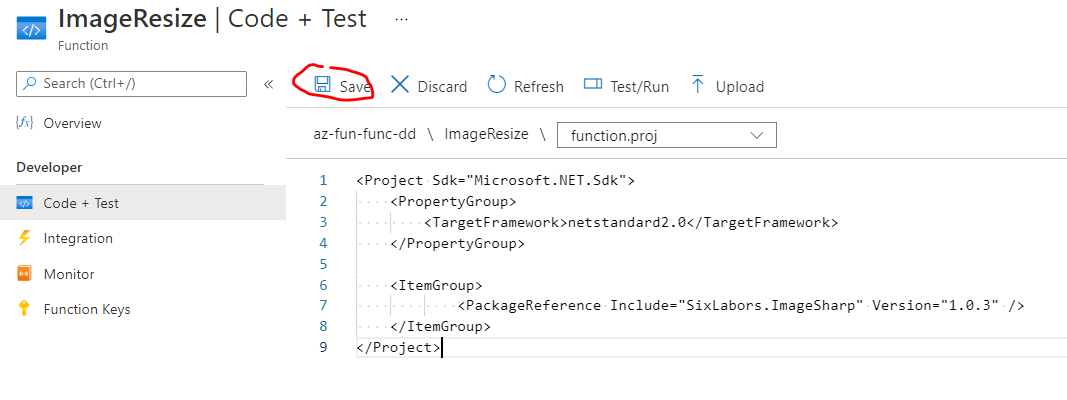
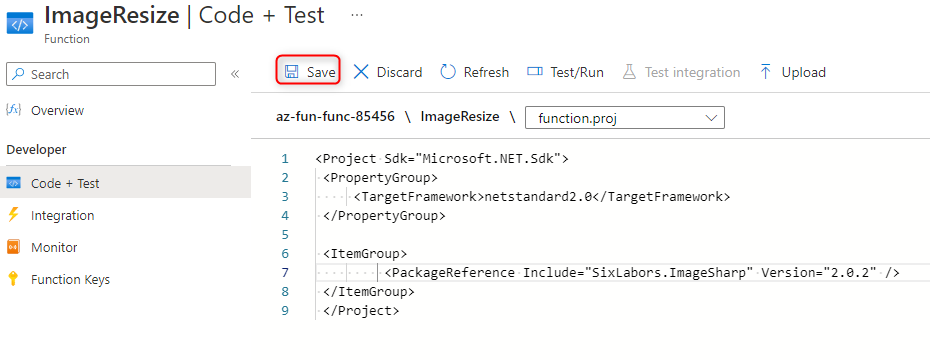
update

diff --git a/Instructions/04-Azure-sql-databases/7-Create-a-sql-database.md b/Instructions/04-Azure-sql-databases/7-Create-a-sql-database.md
@@ -12,21 +12,22 @@ In this task, we will create a SQL database.
 
 3. On the **Basics** tab, fill in this information.  
 
-    | Setting            | Value                                                        |
-    | ------------------ | ------------------------------------------------------------ |
-    | Subscription       | **Use default supplied**                                     |
-    | Resource group     | **az-fun-sql-rg**                                            |
-    | Database name      | **az-fun-sql-db**                                            |
-    | Server             | Select **Create new** (A new sidebar will open on the right) |
-    | Server name        | **az-fun-sql-srv-xxxx** (must be unique)                     |
-    | Server admin login | **sqluser**                                                  |
-    | Password           | **Pa$$w0rd1234**                                             |
-    | Location           | **(Europe) West Europe**                                     |
-    | Click              | **OK**                                                       |
+    | Setting               | Value                                                        |
+    | --------------------- | ------------------------------------------------------------ |
+    | Subscription          | **Use default supplied**                                     |
+    | Resource group        | **az-fun-sql-rg**                                            |
+    | Database name         | **az-fun-sql-db**                                            |
+    | Server                | Select **Create new** (A new sidebar will open on the right) |
+    | Server name           | **az-fun-sql-srv-xxxx** (must be unique)                     |
+    | Authentication method | Select **Use SQL authentication**                            |
+    | Server admin login    | **sqluser**                                                  |
+    | Password              | **Pa$$w0rd1234**                                             |
+    | Location              | **(Europe) West Europe**                                     |
+    | Click                 | **OK**                                                       |
 
    ![sql-database-server-create](/assets/sql-database-server-create.PNG)
 
-4. In the **Compute + storage** option, click on **Configure database** link, and select the **Standard** performance tier.
+4. In the **Compute + storage** option, click on **Configure database** link, and select the **Standard** performance tier, then click **Apply**.
     ![sql-database-server-pricing-tier](/assets/sql-database-server-pricing-tier.PNG)
 
 5. Click **Review + create** and then click **Create** to deploy and provision the resource group, server, and database. It can take approx. 2 to 5 minutes to deploy.
@@ -53,7 +54,7 @@ In this task, we will configure the SQL server and run a SQL query.
 6. From the az-fun-sql-db **Overview** blade, click **Set server firewall** Located on the top center of the overview screen.
     ![sql-database-server-set-serrver-firewall](/assets/sql-database-server-set-serrver-firewall.PNG)
 
-7. Click **+ Add client IP** (top menu bar) to add the IP address referenced in the error. (it may have autofilled for you - if not paste it into the IP address fields). Be sure to **Save** your changes. 
+7. Select **Selected network** (top menu bar) to add the IP address referenced in the error. (it may have autofilled for you **Add your client IPv4 address ...** - if not paste it into the IP address fields). Be sure to **Save** your changes. 
 
     ![sql-database-server-set-serrver-firewall-add-client-ip.PNG](/assets/sql-database-server-set-serrver-firewall-add-client-ip.PNG)
 

diff --git a/Instructions/02-App-services/1-Deploy-custom-web-app-to-app-services.md b/Instructions/02-App-services/1-Deploy-custom-web-app-to-app-services.md
@@ -21,10 +21,10 @@ In this task, you will create an Azure App Service Web App.
     | Resource Group   | **az-fun-web-rg**          | Create a new one                                          |
     | Name             | **az-fun-custom-web-xxxx** | Name must be unique across all Azure subscriptions        |
     | Publish          | **Code**                   |                                                           |
-    | Runtime stack    | **.Net Core 3.1 (LTS)**    |                                                           |
+    | Runtime stack    | **.NET 6 (LTS)**           |                                                           |
     | Operating System | **Windows**                |                                                           |
     | Region           | **West Europe**            |                                                           |
-    | Linux Plan       | **az-fun-win-asp**         | Create new plan, name must be unique in your subscription |
+    | Windows Plan     | **az-fun-win-asp**         | Create new plan, name must be unique in your subscription |
     | Sku and size     | **Standard S1**            |                                                           |
     
     >**Note** - Remember to change the **xxxx** so that your Web App name is unique.
@@ -45,16 +45,15 @@ In this task you will create custom .net core web app in Visual Studio.
 2. Search for `asp.net core web app` in the search bar, and select the project template for creating an asp.net core application with razor content.
     ![razer-content-webapp](/assets/razer-content-webapp.PNG)
 
-3. Give it a name for example `WebApplication`, and select the desired folder for your app, click `Next`
+3. Give it a name for example `MyWebApplication`, and select the desired folder for your app, click `Next`
 
 4. Leave `Additional information` page as default, and hit `Create`
     | Setting                          | Value                                 | Comments                                           |
     | -------------------------------- | ------------------------------------- | -------------------------------------------------- |
-    | Target Framework                 | **.NET Core 3.1 (Long-term support)** |                                                    |
+    | Target Framework                 | **.NET 6.0 (Long-term support)**      |                                                    |
     | Authentication Type              | **None**                              | Create a new one                                   |
     | Configure for HTTPS              | **checked**                           | Name must be unique across all Azure subscriptions |
     | Enable Docker                    | **unchecked**                         |                                                    |
-    | Enable Razor runtime compilation | **unchecked**                         |                                                    |
 
 5. Run your application locally, and see if it is working, it should display, the basic web page for selected project template
     ![basic-web-page](/assets/basic-web-page.PNG)

diff --git a/Instructions/06-Azure-DevOps/1-Azure-DevOps.md b/Instructions/06-Azure-DevOps/1-Azure-DevOps.md
@@ -154,3 +154,45 @@ Now you will plan your `Sprint`
 8. Create new dotnet web app by typing `dotnet new webapp` in terminal
 9. Open it in VS Code
 10. TODO
+
+# Task 8: Build Pipeline
+1. Go to Azure **Pipelines**, on the top right, click **New pipeline**, click **Use the classic editor** at the bottom
+![image](https://user-images.githubusercontent.com/51710476/211810580-c42e3543-0c53-401c-b358-c1c7b8e387a1.png)
+
+2. Click
+![image](https://user-images.githubusercontent.com/51710476/211836520-03c4e59d-f69b-4b2a-8dd3-e01d8411dd1a.png)
+
+3. Click
+![image](https://user-images.githubusercontent.com/51710476/211836395-678e763e-5eeb-4a0e-8d30-cff9e0e5847a.png)
+
+4. Set name as **ecommerce.webapp-CI** and select **windows-latest** in the Agent Specification dropdown
+![image](https://user-images.githubusercontent.com/51710476/211893687-26646d19-c194-4833-8acc-59cce5bf7a4b.png)
+
+5. Switch to **Triggers** tab, check **Enable continuous integration** checkbox. In **Branch filters**, make sure `Inlude` is selected in the **Type** dropdow menu and `main` is selected in the **Branch specification** dropdown menu
+![image](https://user-images.githubusercontent.com/51710476/211894156-f26dcbb6-51a1-4308-91b5-7bcabab48485.png)
+
+6. Click **Save & queue**, select **Save** from dropdown menu, and click **Save** in the new window that appears
+
+7. Go to pipelines to view your newly created pipeline
+![image](https://user-images.githubusercontent.com/51710476/211896490-e1b3c1df-4640-4113-bc4a-05bdb9d34e23.png)
+
+# Task 8: Relese Pipeline
+1. Go to Azure **Pipelines** -> **Releases**, click **+ New** and select **New release pipeline** from the dropdown menu
+![image](https://user-images.githubusercontent.com/51710476/211897227-7dcb55c9-94ec-46e0-8fc8-b3b28b291d74.png)
+2. ...Select template
+![image](https://user-images.githubusercontent.com/51710476/211898868-14ec54c2-ac53-4606-8beb-6ba8cce91b15.png)
+
+3.Fill in fields
+![image](https://user-images.githubusercontent.com/51710476/211900377-4bd78aa8-9c84-4eb3-b893-a708385d8135.png)
+
+4. Go to Pipeline tab, clcik **Add an artifact**
+![image](https://user-images.githubusercontent.com/51710476/211900612-4e6d0fb3-eefd-4b2a-b42a-611633b8d8be.png)
+
+5. select Build, Project, Source, select Latest, click **Add**
+![image](https://user-images.githubusercontent.com/51710476/211900910-a6904262-43fd-4db8-be7b-980fff1bf325.png)
+
+6. Click thunderbolt icon
+![image](https://user-images.githubusercontent.com/51710476/211901073-cbb3b406-4785-4a8b-82ee-0db60e150de4.png)
+
+7.Check checkbox, click Save and then click **Save** in the new window that appears
+![image](https://user-images.githubusercontent.com/51710476/211901546-34dcdec5-07c9-4cd0-a43f-db1582d803ea.png)

diff --git a/Instructions/02-App-services/1-Deploy-custom-web-app-to-app-services-in-vs-code.md b/Instructions/02-App-services/1-Deploy-custom-web-app-to-app-services-in-vs-code.md
@@ -4,7 +4,7 @@
 In this walkthrough, you will create and deploy a custom .net core web app on Windows App Service Plan. Let's dive in!
 
 ## Perquisite:
-- Make sure, that you  have installed [.NET Core SDK](https://dotnet.microsoft.com/download). The SDK also includes the Runtime.
+- Make sure, that you  have installed [.NET SDK](https://dotnet.microsoft.com/en-us/download/dotnet/6.0). The SDK also includes the Runtime.
 ![net-core-sdk](/assets/net-core-sdk.PNG)
 - The [C# extension](https://marketplace.visualstudio.com/items?itemName=ms-dotnettools.csharp) from the VS Code Marketplace.
 
@@ -26,10 +26,10 @@ In this task, you will create an Azure App Service Web App.
     | Resource Group   | **az-fun-web-rg**          | Create a new one                                          |
     | Name             | **az-fun-custom-web-xxxx** | Name must be unique across all Azure subscriptions        |
     | Publish          | **Code**                   |                                                           |
-    | Runtime stack    | **.Net Core 3.1 (LTS)**    |                                                           |
+    | Runtime stack    | **.NET 6 (LTS)**           |                                                           |
     | Operating System | **Windows**                |                                                           |
     | Region           | **West Europe**            |                                                           |
-    | Linux Plan       | **az-fun-win-asp**         | Create new plan, name must be unique in your subscription |
+    | Windows Plan     | **az-fun-win-asp**         | Create new plan, name must be unique in your subscription |
     | Sku and size     | **Standard S1**            |                                                           |
     
     >**Note** - Remember to change the **xxxx** so that your Web App name is unique.
@@ -80,7 +80,7 @@ In this task you will create deployment files that will be needed in order to de
 
     ![dotnet-publish-to-folder](/assets/dotnet-publish-to-folder.PNG)
 
-2. Navigate to your  `bin/Release/net5.0/publish` folder and compress to zip folder all the files. You can name it like you wish, for example `deploymentfiles`
+2. Navigate to your  `bin/Release/net6.0/publish` folder and compress to zip folder all the files. You can name it like you wish, for example `deploymentfiles`
 
     ![dotnet-publish-zip-your-files.PNG](/assets/dotnet-publish-zip-your-files.PNG)
 

diff --git a/Instructions/01-Virtual-machines/1-Create-a-basic-virtual-machine-from-portal.md b/Instructions/01-Virtual-machines/1-Create-a-basic-virtual-machine-from-portal.md
@@ -6,7 +6,7 @@ In this walkthrough, we will create a virtual machine in the Azure portal connec
 
 1. Sign-in to the Azure portal: https://portal.azure.com
 
-2. From the Top search bar in the Portal Menu, search for and select Virtual machines, and then click `+Add`, and choose `+Virtual machine` from the drop down.
+2. From the Top search bar in the Portal Menu, search for and select Virtual machines, and then click `+Create`, and choose `+Azure virtual machine` from the drop down.
 
 3. On the `Basics` tab, fill in the following information (leave the defaults for everything else):
   
@@ -49,14 +49,14 @@ In this walkthrough, we will create a virtual machine in the Azure portal connec
     | Virtual machine image | **Windows Server 2019 Datacenter - Gen1** |
 
     ###### Azure Spot instance
-    Leave `Azure Spot instance` unchecked. That's a setting that allows Azure to stop and deallocate a virtual machine if Azure needs that compute capacity back for whatever reason.
+    Leave `Run with Azure Spot discount` unchecked. That's a setting that allows Azure to stop and deallocate a virtual machine if Azure needs that compute capacity back for whatever reason.
 
     ###### Size
     And lastly in this section, for `size` pick a smaller virtual machine size from the list of VM sizes available for selected region, since you don't need a ton of capacity for this demo purpose.
     **You can use the following values:**
     | Settings | Values           |
     | -------- | ---------------- |
-    | Size     | **Standard_B1s** |
+    | Size     | **Standard_B1ms** |
 
     the next section that you will define is `administrator account` 
 
@@ -69,13 +69,14 @@ In this walkthrough, we will create a virtual machine in the Azure portal connec
     | Settings                       | Values           |
     | ------------------------------ | ---------------- |
     | Administrator account username | **azureuser**    |
-    | Administrator account password | **Pa$$w0rd1234** |
+    | Administrator account password | **Password%1234** |
 
     >remember your account information, because you will need it later to log in via RDP.
 
-    The next section to cover is `inbound-port-rule`
+    The next section to cover is `Inbound port rules`
 
     ##### Inbound port rules
+   
     ![inbound-port-rule](/assets/inbound-port-rule.PNG)
 
     You will need to define some `inbound port rules` for accessing this virtual machine. 

diff --git a/Instructions/02-App-services/2-Deployment-slots-demo-in-vs-code.md b/Instructions/02-App-services/2-Deployment-slots-demo-in-vs-code.md
@@ -4,7 +4,7 @@
 In this walkthrough, you will extend previous exercise (02/2) where you have created and deployed custom web app, with deploying into deployment slots.
 
 ## Perquisite:
-- Make sure, that you  have installed [.NET Core SDK](https://dotnet.microsoft.com/download). The SDK also includes the Runtime.
+- Make sure, that you  have installed [.NET SDK](https://dotnet.microsoft.com/en-us/download/dotnet/6.0). The SDK also includes the Runtime.
 ![net-core-sdk](/assets/net-core-sdk.PNG)
 - The [C# extension](https://marketplace.visualstudio.com/items?itemName=ms-dotnettools.csharp) from the VS Code Marketplace.
 - The [Azure App Services extension](https://marketplace.visualstudio.com/items?itemName=ms-azuretools.vscode-azureappservice) from the VS Code Marketplace.
@@ -145,7 +145,7 @@ In this task you will configure settings for the production slot
 
 In this task you will create and configure settings for the staging slot
 
-1. On the **App Service** blade, navigate to **Deployment slots** under the **Deployment** section and click **Add Slot**
+1. On the **App Service** blade, navigate to **Deployment slots** under the **Deployment** section, then complete the fields according to the table below and click **Add Slot**
 
     | Slot Setting        | Value                 | Comments                                                                 |
     | ------------------- | --------------------- | ------------------------------------------------------------------------ |

diff --git a/Instructions/03-Azure-functions/1-Create-http-triggered-azure-function.md b/Instructions/03-Azure-functions/1-Create-http-triggered-azure-function.md
@@ -15,12 +15,12 @@ In this task, we will create a Function app.
     | Settings          | Value                         |
     | ----------------- | ----------------------------- |
     | Subscription      | **Keep default supplied**     |
-    | Resource group    | **az-fun-func-rg** |
-    | Function App name | **az-fun-func-xxxx**             |
+    | Resource group    | **az-fun-func-rg**            |
+    | Function App name | **az-fun-func-xxxx**          |
     | Publish           | **Code**                      |
     | Runtime stack     | **.NET**                      |
-    | Version           | **3.1**                       |
-    | Region            | **West Europe**                   |
+    | Version           | **6**                         |
+    | Region            | **West Europe**               |
 
     >**Note** - Remember to change the **xxxx** so that it makes a unique **Function App name**
 
@@ -42,7 +42,7 @@ In this task, we will use the Webhook + API function to display a message when t
 
     ![function-app-add](/assets/function-app-add.PNG)
 
-3. An **Add function** pop-up window will appear on the right. In the **Select a template** section click **HTTP trigger**. Click **Add** 
+3. An **Add function** pop-up window will appear on the right. In the **Select a template** section click **HTTP trigger**. Click **Create** 
 
     ![function-app-add-httptrigger](/assets/function-app-add-httptrigger.PNG)
 

diff --git a/Instructions/03-Azure-functions/2-blob-triggered-azure-function/2-blob-triggered-azure-function.md b/Instructions/03-Azure-functions/2-blob-triggered-azure-function/2-blob-triggered-azure-function.md
@@ -19,7 +19,7 @@ In this task, we will create a Function app service, if you already have one, yo
     | Function App name | **az-fun-func-xxxx**      |
     | Publish           | **Code**                  |
     | Runtime stack     | **.NET**                  |
-    | Version           | **3.1**                   |
+    | Version           | **6**                     |
     | Region            | **West Europe**           |
 
     >**Note** - Remember to change the **xxxx** so that it makes a unique **Function App name**
@@ -52,7 +52,7 @@ In this task, we will create the Blob Triggered function to see the name of uplo
 
     ![function-app-blobtriggered-code](/assets/function-app-blobtriggered-code.PNG)
 
-6. Expand the **Logs**
+6. Expand the **Logs** and select **Filesystem Logs** from the dropdown 
     ![function-app-expand-the-logs](/assets/function-app-expand-the-logs.PNG)
 
 7. Open a new browser tab and navigate to Azure Portal. Find your **Function Apps** **resource group** and open the storage account service associated with it.
@@ -119,7 +119,7 @@ In this task, we will implement the resize functionality, we will add 3 **output
     </PropertyGroup>
 
     <ItemGroup>
-            <PackageReference Include="SixLabors.ImageSharp" Version="1.0.3" />
+            <PackageReference Include="SixLabors.ImageSharp" Version="2.0.2" />
     </ItemGroup>
     </Project>
    ```

diff --git a/Instructions/05-Azure-blob-storage/8-create-a-blob-storage.md b/Instructions/05-Azure-blob-storage/8-create-a-blob-storage.md
@@ -24,7 +24,7 @@ In this task, we will create a new storage account.
 
     **Note** - Remember to change the **XX** so that it makes a unique **Storage account name**
 
-4. Click **Review + Create** to review your storage account settings and allow Azure to validate the configuration. 
+4. Click **Review** to review your storage account settings and allow Azure to validate the configuration. 
 
 5. Once validated, click **Create**. Wait for the notification that the account was successfully created. 
 
@@ -36,9 +36,9 @@ In this task, we will create a new storage account.
 
 In this task, we will create a Blob container and upload a blob file. 
 
-1. Click the name of the new storage account, scroll to the **Blob service** section in the left menu, and then click **Containers**.
+1. Click the name of the new storage account, scroll to the **Data storage** section in the left menu, and then click **Containers**.
 
-2. Click **+ Container** and complete the information. Use the Information icons to learn more. When done click **OK**.
+2. Click **+ Container** and complete the information. Use the Information icons to learn more. When done click **Create**.
 
 
     | Setting             | Value                             |

diff --git a/Instructions/01-Virtual-machines/2-Create-a-basic-vm-with-cli.md b/Instructions/01-Virtual-machines/2-Create-a-basic-vm-with-cli.md
@@ -40,7 +40,7 @@ az vm create \
     --name "win-cli-vm" \
     --image "win2019datacenter" \
     --admin-username "azureuser" \
-    --admin-password "Pa$$w0rd1234" 
+    --admin-password "Password%1234" 
 ```
 
 **Note**: The command will take 2 to 3 minutes to complete. The command will create a virtual machine and various resources associated with it such as storage, networking and security resources. Do not continue to the next step until the virtual machine deployment is complete. 
